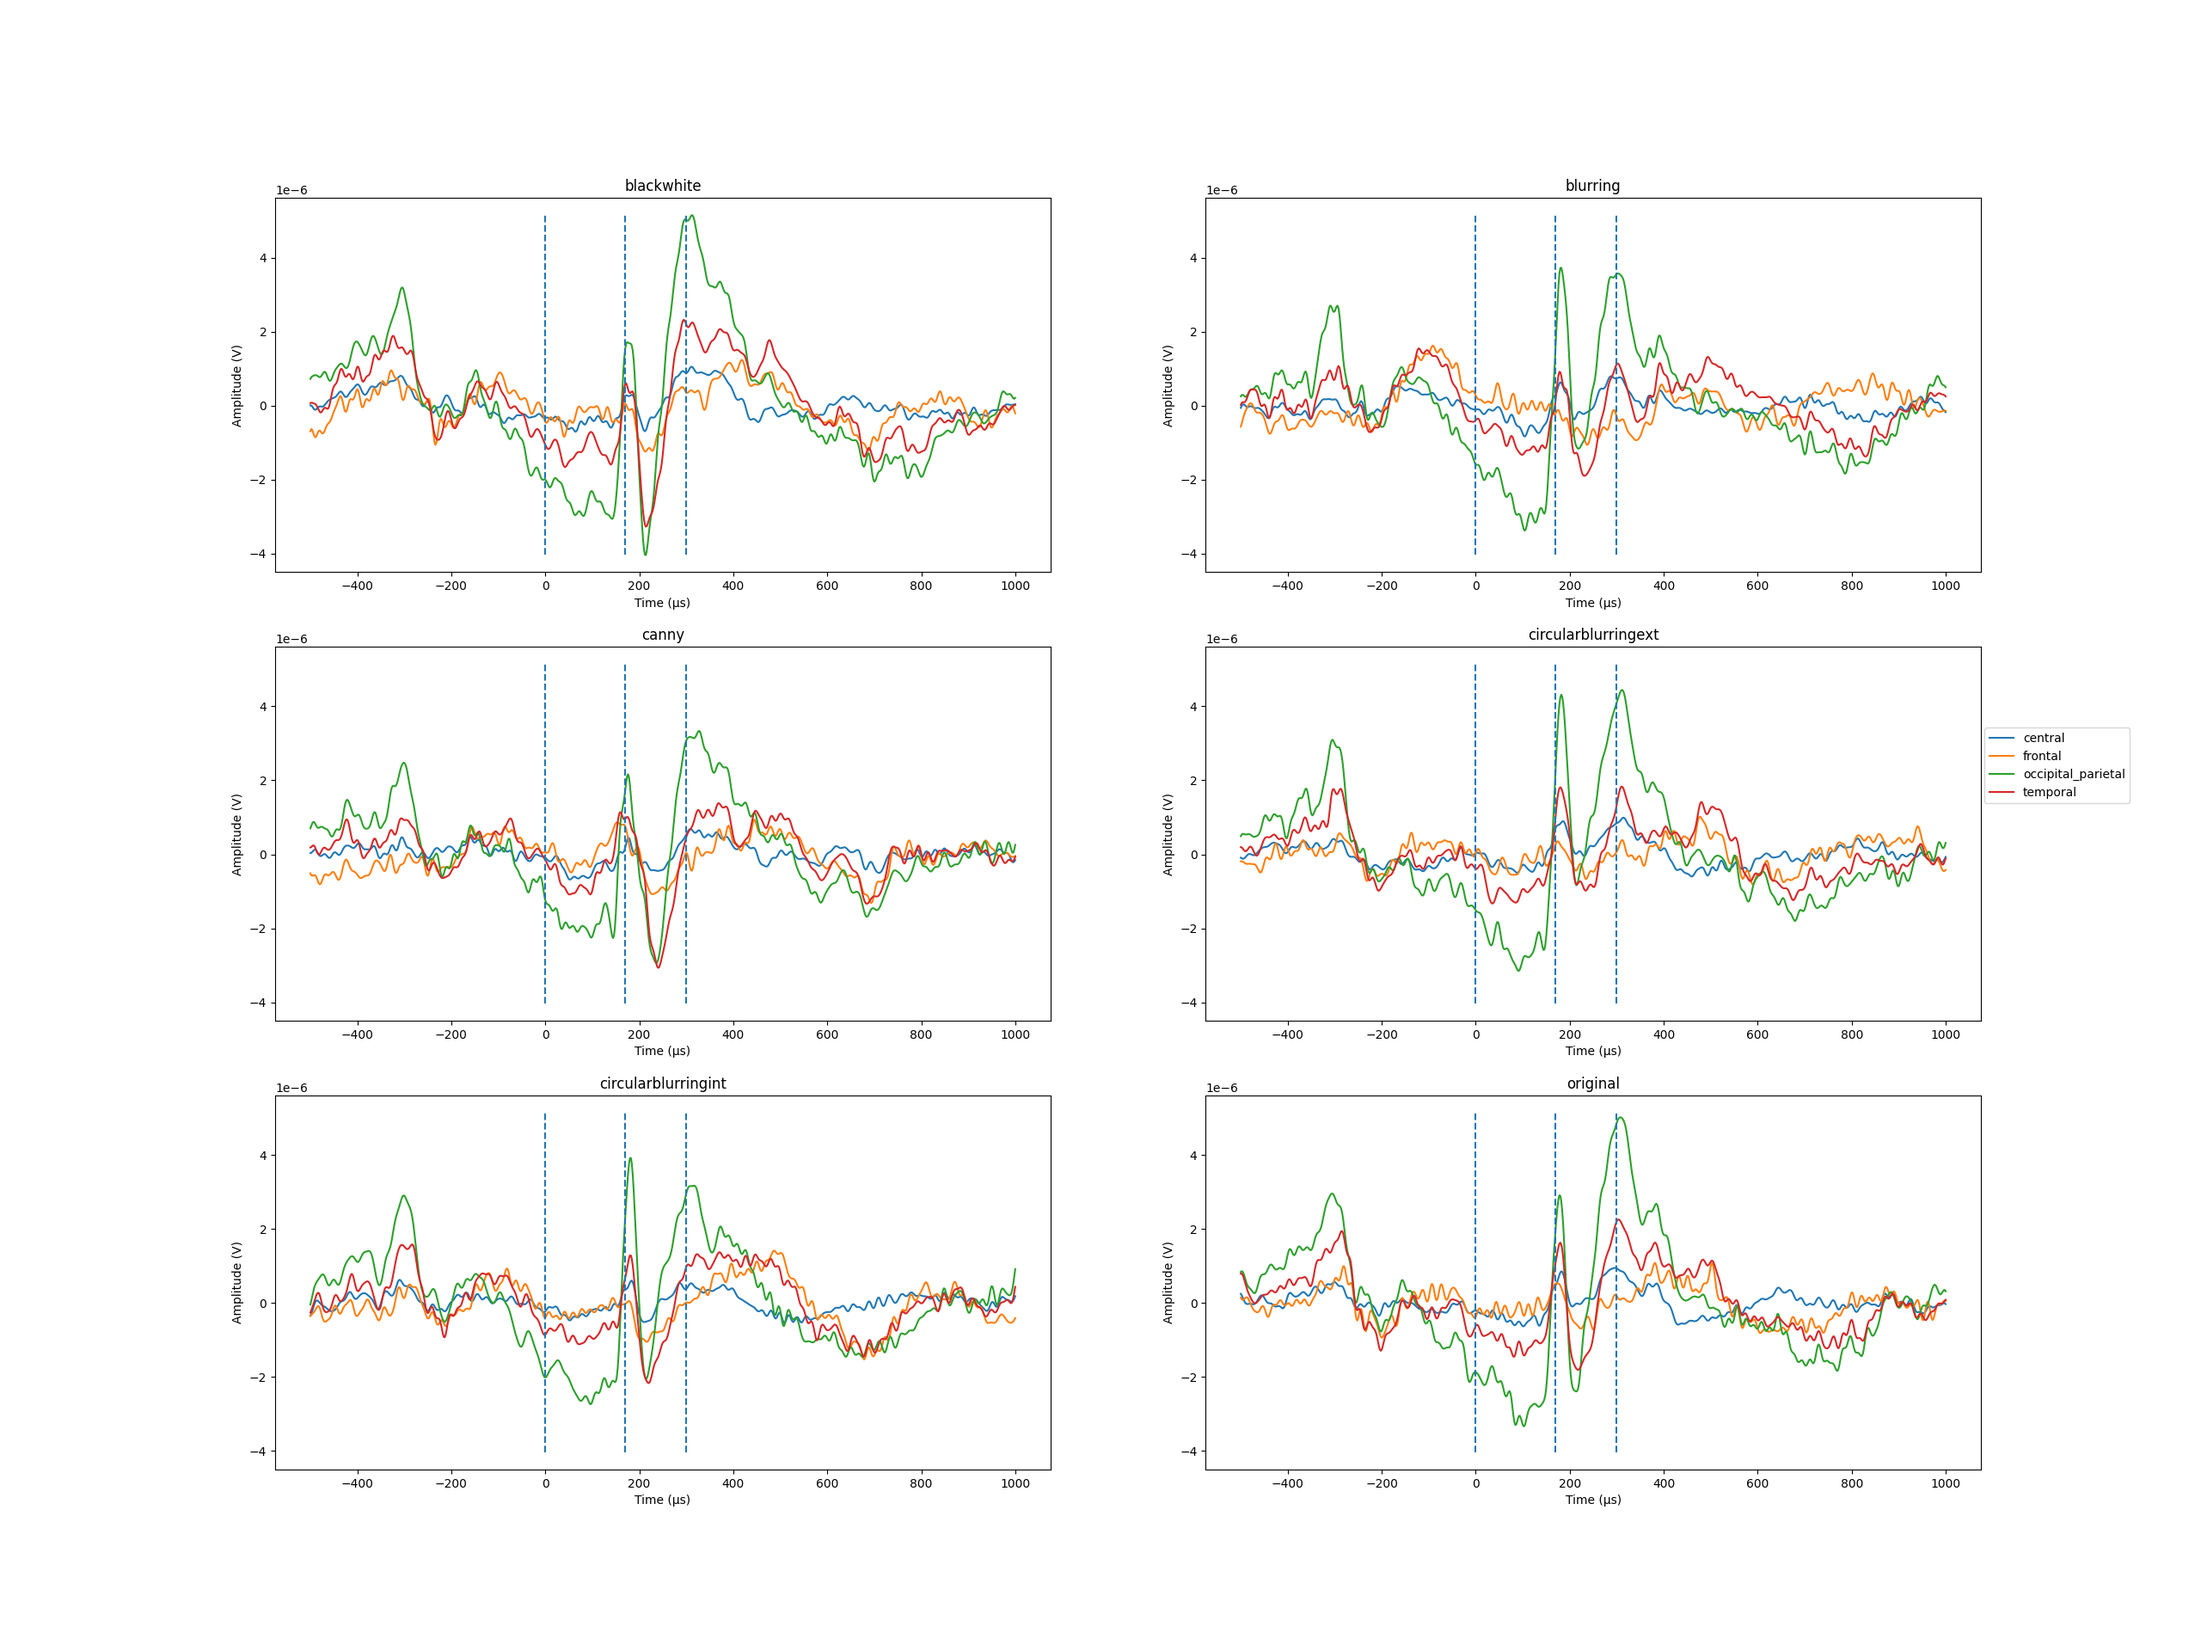
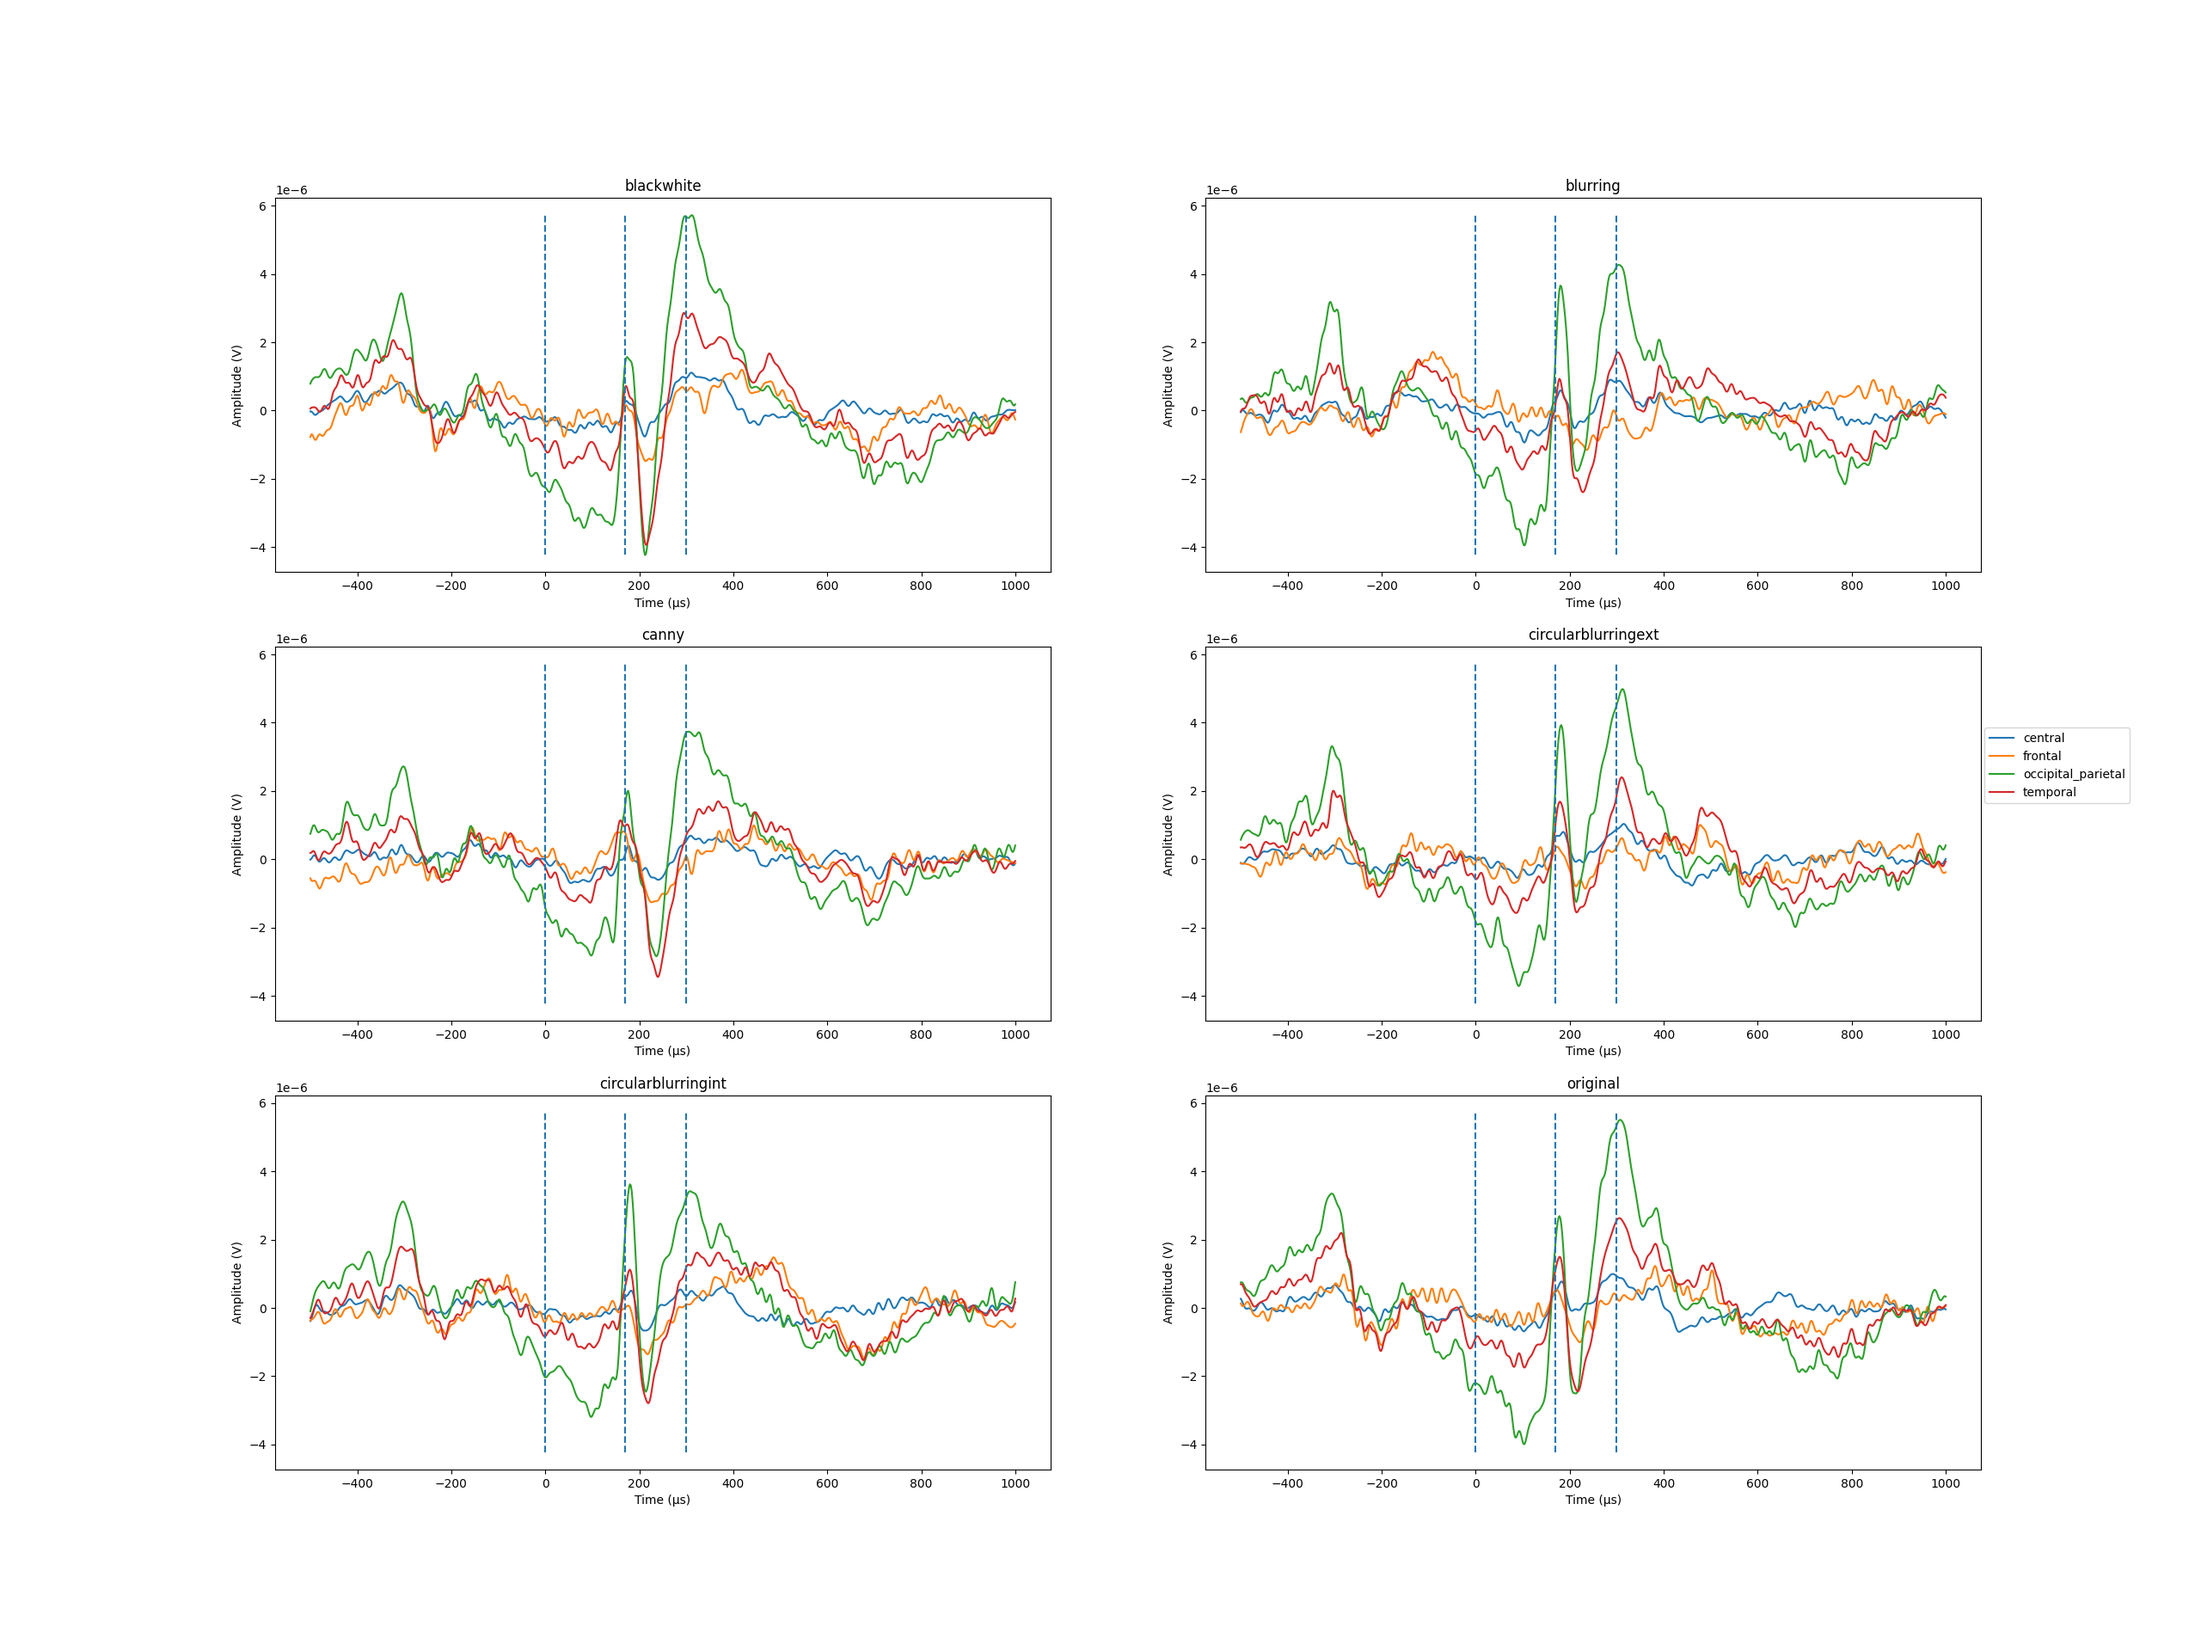
h4: N200 and valence

diff --git a/src/main-jamovi-wide-data.py b/src/main-jamovi-wide-data.py
@@ -1,106 +1,131 @@
 import json
 
+import numpy as np
 import pandas as pd
 
 from src.EEGAnalysis import EEGAnalysis
 
 if __name__ == '__main__':
 
+    # read form-result file to get codes and gender of the participants
     participant_data = pd.read_csv('../data/form-results/form-results.csv')
     participant_data = participant_data[['code', 'gender']]
 
+    # read ratings-result file to get the ratings for each participant and for each image
     rating_path = '../data/ratings-results/ratings-results.csv'
     data = pd.read_csv(rating_path, index_col=0)
 
+    # exclude participant with bad acquisitions
     data = data[(data['code'] != 'maba09') & (data['code'] != 'soze31') & (data['code'] != 'nipe10') &
                 (data['code'] != 'dino02')]
+
+    # format the data
     data['code'] = data['code'].astype('category')
     data['img_name'] = data['img_name'].astype('category')
     data['manipulation'] = data['manipulation'].astype('category')
 
+    # ----------------------------------------------------------------------------------------------------------------
     # h1: original vs new ratings
 
+    # get the list of original images
     image_codes = data.loc[:, 'img_name'].to_list()
     image_codes = list(set(image_codes))
     image_codes = [code for code in image_codes if '_orig' in code]
 
     features = [['vm', 'valence'], ['am', 'arousal']]
 
+    # extract old and new mean ratings for each image
     for feature in features:
         x = data.loc[data['img_name'].isin(image_codes)]
         data_wide = x.groupby(['img_name']).mean()[feature].dropna().reset_index()
         data_wide.to_csv('../data/jamovi-tables/h1_' + feature[1] + '.csv', index=False)
 
+    # ----------------------------------------------------------------------------------------------------------------
     # h2: subject ID and rating according to the manipulation
 
+    # get the list of participants
     participant_codes = data.loc[:, 'code'].to_list()
     participant_codes = list(set(participant_codes))
 
     features = ['valence', 'arousal']
 
     for feature in features:
-
+        # get the mean ratings for each participant according to the type of manipulation
         data_wide = data.groupby(['code', 'manipulation']).mean()[feature].reset_index().pivot(index='code',
                                                                                                columns=['manipulation'])
         data_wide.columns = ["_".join(col[1:]).strip() for col in data_wide.columns.values]
 
+        # get participant gender
         gender = []
         for idx, row in data_wide.iterrows():
             gender.append(participant_data.loc[participant_data['code'] == idx]['gender'].values[0][0])
 
+        # refine dataframe and save it
         data_wide.insert(0, 'gender', gender)
         data_wide['gender'] = data_wide['gender'].astype('category')
         data_wide.to_csv('../data/jamovi-tables/h2_' + feature + '.csv', index=False)
 
+    # ----------------------------------------------------------------------------------------------------------------
     # h3: subject ID and N170 amplitude according to the manipulation
 
-    path = '../data/eeg/'
-    dict_info = json.load(open("../data/eeg/info.json"))
+    # path = '../data/eeg/'
+    # dict_info = json.load(open("../data/eeg/info.json"))
+    #
+    # # prepare the two dataframe to contain data
+    # n200_wide = pd.DataFrame(columns=['code', 'gender', 'blackwhite', 'blurring', 'circularblurringext',
+    #                                   'circularblurringint', 'canny', 'original'])
+    # p300_wide = n200_wide.copy()
+    # columns = list(n200_wide.columns)[2:]
+    #
+    # # for each participant
+    # for code in participant_codes:
+    #
+    #     # extract its gender and process its file
+    #     g = participant_data.loc[participant_data['code'] == code]['gender'].values[0][0]
+    #     file_path = path + 'subj_' + code + '_block1.xdf'
+    #     eeg = EEGAnalysis(file_path, dict_info=dict_info)
+    #     eeg.run_raw(filtering=True)
+    #     eeg.define_epochs_raw(save_epochs=False)
+    #
+    #     # extract the peak in N200
+    #     n200_peaks = eeg.get_peak()
+    #     peaks_values = [n200_peaks[key] for key in columns]
+    #
+    #     peaks_values = [code, g] + peaks_values
+    #     n200_wide.loc[len(n200_wide.index)] = peaks_values
+    #
+    #     p300_peaks = eeg.get_peak(channels=['P3', 'Pz', 'P4'], t_min=0.280, t_max=0.350, peak=1)
+    #     peaks_values = [p300_peaks[key] for key in columns]
+    #
+    #     peaks_values = [code, g] + peaks_values
+    #     p300_wide.loc[len(p300_wide.index)] = peaks_values
+    #
+    # n200_wide['code'] = n200_wide['code'].astype('category')
+    # n200_wide['gender'] = n200_wide['gender'].astype('category')
+    # n200_wide.to_csv('../data/jamovi-tables/h3_n200.csv', index=False)
+    #
+    # p300_wide['code'] = p300_wide['code'].astype('category')
+    # p300_wide['gender'] = p300_wide['gender'].astype('category')
+    # p300_wide.to_csv('../data/jamovi-tables/h3_p300.csv', index=False)
 
-    n200_wide = pd.DataFrame(columns=['code', 'gender', 'blackwhite', 'blurring', 'circularblurringext',
-                                      'circularblurringint', 'canny', 'original'])
-    p300_wide = n200_wide.copy()
-    columns = list(n200_wide.columns)[2:]
-
-    for code in participant_codes:
-
-        file_path = path + 'subj_' + code + '_block1.xdf'
-        g = participant_data.loc[participant_data['code'] == code]['gender'].values[0][0]
-
-        eeg = EEGAnalysis(file_path, dict_info=dict_info)
-        eeg.run_raw(filtering=True)
-        eeg.define_epochs_raw(save_epochs=False)
-
-        n200_peaks = eeg.get_peak()
-        peaks_values = [n200_peaks[key] for key in columns]
-
-        peaks_values = [code, g] + peaks_values
-        n200_wide.loc[len(n200_wide.index)] = peaks_values
-
-        p300_peaks = eeg.get_peak(channels=['P3', 'Pz', 'P4'], t_min=0.280, t_max=0.320, peak=1)
-        peaks_values = [p300_peaks[key] for key in columns]
-
-        peaks_values = [code, g] + peaks_values
-        p300_wide.loc[len(p300_wide.index)] = peaks_values
-
-    n200_wide['code'] = n200_wide['code'].astype('category')
-    n200_wide['gender'] = n200_wide['gender'].astype('category')
-    n200_wide.to_csv('../data/jamovi-tables/h3_n200.csv', index=False)
-
-    p300_wide['code'] = p300_wide['code'].astype('category')
-    p300_wide['gender'] = p300_wide['gender'].astype('category')
-    p300_wide.to_csv('../data/jamovi-tables/h3_p300.csv', index=False)
-
-    # TODO: h4 - n200 vs valence
+    # ----------------------------------------------------------------------------------------------------------------
+    # h4 - n200 vs valence
 
     path = '../data/eeg/'
     dict_info = json.load(open('../data/eeg/info_full.json'))
 
     n200_wide = pd.DataFrame(columns=['code', 'gender', 'blackwhite', 'blurring', 'circularblurringext',
-                                      'circularblurringint', 'canny', 'original'])
+                                      'circularblurringint', 'edges', 'original'])
     columns = list(n200_wide.columns)[2:]
 
+    n200_wide = {}
+    p300_wide = {}
+    for column in columns:
+        n200_wide[column] = pd.DataFrame(columns=['n200', 'valence'])
+        p300_wide[column] = pd.DataFrame(columns=['p300', 'valence'])
+
     for code in participant_codes:
+
         file_path = path + 'subj_' + code + '_block1.xdf'
         g = participant_data.loc[participant_data['code'] == code]['gender'].values[0][0]
 
@@ -110,3 +135,35 @@ if __name__ == '__main__':
 
         n200_peaks, n200_annotations = eeg.get_peak(mean=False, channels=['FT9', 'Fc5', 'T7', 'TP9', 'CP5'],
                                                     t_min=0.180, t_max=0.250, peak=-1)
+
+        p300_peaks, p300_annotations = eeg.get_peak(mean=False, channels=['P3', 'Pz', 'P4'],
+                                                    t_min=0.280, t_max=0.350, peak=1)
+
+        for condition in n200_wide.keys():
+            peaks = n200_peaks[condition]
+            annotations = n200_annotations[condition]
+
+            ratings = [float(data.loc[(data['code'] == code) & (data['img_name'] == annotation)]['valence'])
+                       for annotation in annotations]
+
+            values = np.vstack((np.array(peaks), np.array(ratings))).T
+
+            for value in values:
+                n200_wide[condition].loc[len(n200_wide[condition].index)] = value
+
+            peaks = p300_peaks[condition]
+            annotations = p300_annotations[condition]
+
+            ratings = [float(data.loc[(data['code'] == code) & (data['img_name'] == annotation)]['valence'])
+                       for annotation in annotations]
+
+            values = np.vstack((np.array(peaks), np.array(ratings))).T
+
+            for value in values:
+                p300_wide[condition].loc[len(p300_wide[condition].index)] = value
+
+    for condition in n200_wide.keys():
+        n200_wide[condition].to_csv('../data/jamovi-tables/h4_n200_'+condition+'.csv', index=False)
+        p300_wide[condition].to_csv('../data/jamovi-tables/h4_p300_'+condition+'.csv', index=False)
+
+    # TODO. h3 e h4 con pickle e non con classe -> per acquisizioni frammentate

diff --git a/src/EEGAnalysis.py b/src/EEGAnalysis.py
@@ -578,7 +578,10 @@ class EEGAnalysis:
 
         labels = np.squeeze(np.array(epochs_interest.get_annotations_per_epoch())[:, :, 2])
 
-        conditions_interest = [ann.split('/')[1] for ann in self.event_mapping.keys()]
+        if len(list(self.event_mapping.keys())[0].split('/')) > 1:
+            conditions_interest = [ann.split('/')[1] for ann in self.event_mapping.keys()]
+        else:
+            conditions_interest = self.event_mapping.keys()
         conditions_interest = list(set(conditions_interest))
 
         for condition in conditions_interest:
@@ -692,12 +695,15 @@ class EEGAnalysis:
     def save_pickle(self):
 
         epochs = np.array(self.epochs.get_data())
-        labels = np.squeeze(np.array(self.epochs.get_annotations_per_epoch())[:, :, 2])
+        labels = [annotation[0][2] for annotation in self.epochs.get_annotations_per_epoch()]
+        info = {'fs': self.eeg_fs, 'channels': self.epochs.ch_names, 'tmin': self.t_min, 'tmax': self.t_max}
 
-        with open('../data/pickle/'+self.file_info['file_name']+'_data.pkl', 'wb') as f:
+        with open('../data/pickle/'+self.file_info['subject']+'_data.pkl', 'wb') as f:
             pickle.dump(epochs, f)
-        with open('../data/pickle/'+self.file_info['file_name']+'_labels.pkl', 'wb') as f:
+        with open('../data/pickle/'+self.file_info['subject']+'_labels.pkl', 'wb') as f:
             pickle.dump(labels, f)
+        with open('../data/pickle/'+self.file_info['subject']+'_info.pkl', 'wb') as f:
+            pickle.dump(info, f)
 
     def run_whole(self, visualize_raw=False, save_images=True):
 
@@ -724,6 +730,7 @@ class EEGAnalysis:
         self.define_evoked()
         if save_images:
             self.plot_evoked()
+        self.save_pickle()
 
     def run_raw(self, visualize_raw=False, filtering=False):
 
@@ -773,11 +780,15 @@ class EEGAnalysis:
         if visualize_raw:
             self.visualize_raw()
 
-        self.ica_remove_eog()
+        # self.ica_remove_eog()
 
         self.define_epochs_raw(save_epochs=save_images, set_annotations=False)
-        self.define_ers_erd()
-        self.plot_evoked()
+        if save_images:
+            self.define_ers_erd_spectrogram()
+        self.define_evoked()
+        if save_images:
+            self.plot_evoked()
+        self.save_pickle()
 
     def __getattr__(self, name):
         return 'EEGAnalysis does not have `{}` attribute.'.format(str(name))

diff --git a/src/main-preprocessing-visualization-multiple.py b/src/main-preprocessing-visualization-multiple.py
@@ -19,10 +19,10 @@ if __name__ == '__main__':
         print('\n\nAnalyzing file', path)
 
         eeg = EEGAnalysis(path, dict_info)
-        eeg.run_raw(filtering=True)
+        eeg.run_raw(visualize_raw=False, filtering=True)
 
         raw = eeg.raw
         raws.append(raw)
 
     eeg = EEGAnalysis(paths[0], dict_info)
-    eeg.run_combine_raw(visualize_raw=True, save_images=False, new_raws=raws)
+    eeg.run_combine_raw(visualize_raw=False, save_images=False, new_raws=raws)

diff --git a/src/main-preprocessing-visualization.py b/src/main-preprocessing-visualization.py
@@ -26,7 +26,7 @@ if __name__ == '__main__':
         print('\n\nAnalyzing file', path)
 
         eeg = EEGAnalysis(path, dict_info)
-        eeg.run_whole(visualize_raw=False, save_images=True)
+        eeg.run_whole(visualize_raw=False, save_images=False)
 
         if len(paths) > 1:
             evoked = eeg.evoked
